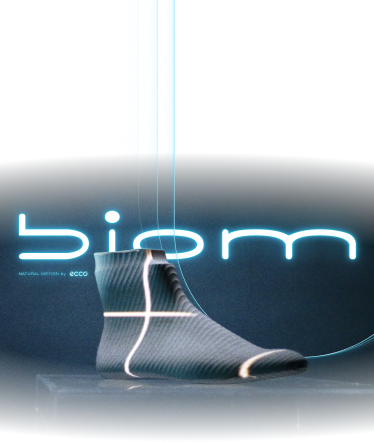
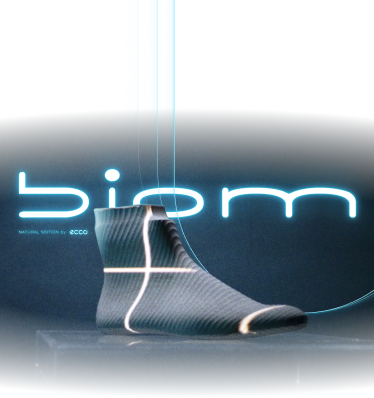
adaptive

diff --git a/assets/css/style.mobile.css b/assets/css/style.mobile.css
@@ -22,16 +22,17 @@
     padding-left: 20px;
     padding-right: 20px;
     position: relative;
-    padding-top: 50px;
+    padding-top: 26px;
     z-index: 3;
 }
 .biom__wrapper::after{
     position: absolute;
     content: '';
-    top: 385px;
-    left: 0;
-    width: 100px;
-    height: 123px;
+    top: 260px;
+    left: 50%;
+    margin-left: -67px;
+    width: 135px;
+    height: 135px;
     background: url('../images/mobile/scr.png') no-repeat center;
     background-size: contain;
     z-index: 2;
@@ -49,6 +50,7 @@
     width: 100%;
     height: 809px;
     background: url('../images/mobile/blue1.svg') no-repeat center;
+    background-size: cover;
 }
 .biom__first::before{
     position: absolute;
@@ -59,6 +61,7 @@
     width: 100%;
     height: 675px;
     background: url('../images/mobile/red1.svg') no-repeat center;
+    background-size: cover;
 }
 .biom__first img{
     display: block;
@@ -72,20 +75,20 @@
     z-index: 0;
 }
 .biom__txt-wrap{
-    max-width: 160px;
+    max-width: 132px;
     margin-left: auto;
-    margin-bottom: 294px;
+    margin-bottom: 283px;
 }
 .biom__title{
     color: #FFF;
     font-family: "Phonk Sans";
-    font-size: 18px;
+    font-size: 15px;
     font-weight: 300;
     line-height: 130%;
     text-align: left;
 }
 .biom__desc{
-    margin-top: 12px;
+    margin-top: 8px;
     text-align: left;
     color: #FFF;
     font-size: 10px;
@@ -121,7 +124,6 @@
     font-weight: 300;
     line-height: 130%;
     letter-spacing: 0.14px;
-    padding-left: 37px;
     width: 100%;
 }
 .biom__txt{
@@ -176,8 +178,8 @@
 .biom__features-lines::after{
     position: absolute;
     content: '';
-    right: 0;
-    top: -550px;
+    right: -100px;
+    top: -368px;
     z-index: 0;
     width: 374px;
     height: 604px;
@@ -190,7 +192,7 @@
 .biom__content{
     padding-left: 20px;
     padding-right: 20px;
-    margin-top: 40px;
+    margin-top: 69px;
     position: relative;
     z-index: 5;
 }
@@ -245,6 +247,7 @@
 }
 .biom__features-info{
     width: 46%;
+    margin-bottom: 10px;
 }
 .biom__features-item{
     margin-bottom: 20px;
@@ -290,27 +293,25 @@
 }
 .biom__features-render{
     width: 47%;
+    margin-bottom: 10px;
 }
 .biom__features-picture1{
-    border-radius: 10px;
-    background: #587878;
-    margin-bottom: 15px;
+    position: relative;
+    width: 100%;
+    height: 100%;
 }
 .biom__features-picture1 img{
+    position: absolute;
+    right: -24px;
+    bottom: 0;
     display: block;
-    max-width: 100%;
     object-fit: contain;
+    max-width: none;
 }
 .biom__features-picture2{
-    border-radius: 10px;
-    overflow: hidden;
-    margin-bottom: 15px;
+    display: none;
 }
-.biom__features-picture2 img{
-    display: block;
-    max-width: 100%;
-    object-fit: contain;
-}
+
 .biom__features-wide{
     width: 100%;
     height: 134px;
@@ -323,9 +324,17 @@
     left: 0;
     bottom: 0;
     display: block;
-    width: 90%;
-    max-width: 90%;
+    width: 100%;
+    max-width: 100%;
     object-fit: contain;
+}
+@media (min-width: 400px){
+    .biom__features-wide img{
+        margin-bottom: -10px;
+    }
+}
+.biom__slider{
+    padding-top: 45px !important;
 }
 .biom__slider-block{
     margin-top: 84px;
@@ -333,8 +342,6 @@
 .biom__slider-container{
     position: relative;
     width: 100%;
-    padding-left: 20px;
-    padding-right: 20px;
 }
 .custom-pagination{
     display: none;
@@ -377,6 +384,7 @@
     margin-left: 20px;
     margin-right: 20px;
     position: relative;
+    margin-bottom: -42px;
 }
 .biom__slider-title::after{
     position: absolute;
@@ -413,7 +421,7 @@
     transform: translate(-50%, -50%);
     width: 374px;
     height: 467px;
-    background: url(../images/slider-bg.png) no-repeat center;
+    background: url(../images/mobile/slider-bg.png) no-repeat center;
     background-size: contain;
 }
 .biom__product-wrap img{
@@ -439,11 +447,13 @@
     top: 368px;
     left: 0;
     width: 100%;
-    padding-left: 48px;
-    padding-right: 48px;
+    padding-left: 68px;
+    padding-right: 68px;
 }
 .biom__slide-content{
     margin-top: 130px;
+    padding-left: 20px;
+    padding-right: 20px;
 }
 .biom__slide-name{
     width: fit-content;
@@ -544,7 +554,7 @@
     text-decoration: none;
 }
 .biom__why-title{
-    margin-top: 90px;
+    margin-top: 56px;
     color: #FFF;
     text-shadow: 0 0 3px #FFF, 0 0 12px #CACACA, 0 0 46px #D7D7D7;
     font-family: "Phonk Sans";
@@ -586,7 +596,7 @@
 .biom__why-num{
     display: flex;
     align-items: flex-end;
-    margin-top: 75px;
+    margin-top: 64px;
     color: #FFF;
     text-shadow: 0 0 14.946px #FFF, 0 0 59.785px #CACACA, 0 0 239.142px #D7D7D7;
     font-family: "Phonk Sans";    
@@ -597,6 +607,7 @@
 .biom__why-num span:nth-child(1){
     font-size: 105px;
     line-height: 1;
+    margin-bottom: 20px;
 }
 .biom__why-num span:nth-child(2){
     font-size: 75px;
@@ -608,6 +619,7 @@
 .biom__why-content img{
     margin-left: -20px;
     margin-bottom: -20px;
+    margin-top: -1px;
 }
 .biom__why-txt{
     color: #FFF;
@@ -651,7 +663,7 @@
     border-radius: 10px;
 }
 .biom__athlete-container{
-    margin-top: 55px;    
+    margin-top: 66px;    
 }
 .biom__athlete{
     position: relative;
@@ -666,6 +678,16 @@
     width: 374px;
     height: 719px;
     background: url('../images/mobile/blue3.svg') no-repeat center;
+    background-size: contain;
+}
+.biom__athlete::before{
+    position: absolute;
+    content: '';
+    top: -30px;
+    right: 0;
+    width: 374px;
+    height: 737px;
+    background: url('../images/mobile/red3.svg') no-repeat center;
     background-size: contain;
 }
 .biom__athlete-title{
@@ -751,7 +773,7 @@
     display: flex;
     flex-wrap: wrap;
     align-items: center;
-    margin-top: 40px;
+    margin-top: 42px;
 }
 .biom__dev-num{
     color: #FFF;
@@ -783,6 +805,7 @@
     line-height: 130%; /* 18.2px */
     letter-spacing: -0.14px;
     padding-left: 107px;
+    margin-top: -12px;
 }
 .biom__dev-logo{
     width: 135px;
@@ -798,7 +821,7 @@
     line-height: 130%;
     letter-spacing: 0.2px;
     text-align: center;
-    margin-top: 50px;
+    margin-top: 56px;
 }
 .biom__models-txt span{
     color: #FFF;   
@@ -855,16 +878,20 @@
 .biom__soc-wrap .i-logo {
     transform: scale(0.5);
     display: block;
-    margin-left: -60px;
 }
 .biom__soc-wrap .i-tg {
     transform: scale(0.5);
     display: block;
+    margin-right: 20px;
+    position: relative;
+    left: -40px;
 }
 .biom__soc-wrap .i-vk {
     transform: scale(0.5);
     display: block;
     margin-right: -20px;
+    position: relative;
+    left: -70px;
 }
 .biom__soc-wrap .icons-row {
     width: 100%;
@@ -873,8 +900,8 @@
     justify-content: center;  
     padding-left: 20px;
     padding-right: 20px;
-    padding-top: 72px;
-    padding-bottom: 60px;
+    padding-top: 54px;
+    padding-bottom: 42px;
 }
 .biom__soc-wrap .icons-row svg{
     display: block;

diff --git a/index.htm b/index.htm
@@ -3047,7 +3047,7 @@ display: none;
                             <div class="biom__desc">для долгих прогулок, <br> фитнеса и хайкинга</div>
                         </div>
                         
-                        <div class="biom__animate biom__info">Заметили, насколько проще наслаждаться <br> каждым шагом, когда на ногах удобная обувь? </div>
+                        <div class="biom__animate biom__info">Заметили, насколько проще наслаждаться каждым шагом, когда на ногах удобная&nbsp;обувь? </div>
                         <div class="biom__animate biom__txt">На прогулке, пробежке и даже в пути на работу — <br> BIOM делают шаги легче, а жизнь комфортнее.</div>
                     </div>
                     <div class="biom__video">
@@ -3058,9 +3058,6 @@ display: none;
                 </div>
                 
                 <div class="biom__features">
-                    <div class="biom__mobile-picture">
-                        <img src="./assets/images/mobile/girl.png" alt="picture">
-                    </div>
                     <div class="biom__features-lines"></div>
                     <div class="biom__content">
                         <div class="biom__features-title">В чем <br> особенность <br> BIOM?</div>
@@ -3083,7 +3080,10 @@ display: none;
                                 </div>
                                 <div class="biom__features-render">
                                     <div class="biom__features-picture1">
-                                        <img src="./assets/images/f1.png" alt="product">
+                                        <picture>
+                                            <source srcset="./assets/images/f1.png" media="(min-width: 1025px)">
+                                            <img src="./assets/images/mobile/girl.png" alt="biom">
+                                        </picture> 
                                     </div>
                                     <div class="biom__features-picture2">
                                         <img src="./assets/images/f2.png" alt="product">
@@ -3238,7 +3238,10 @@ display: none;
                                 <span>х</span>
                             </div>
                             <div class="biom__why-content">
-                                <img src="./assets/images/stelki.png" alt="product">
+                                <picture>
+                                    <source srcset="./assets/images/stelki.png" media="(min-width: 1025px)">
+                                    <img src="./assets/images/mobile/stelki.png" alt="biom">
+                                </picture> 
                                 <div class="biom__why-txt">факторная <br> поддержка <br> стопы</div>
                                 <div class="biom__why-info">Мягкая посадка, устойчивость и&nbsp;мощный импульс</div>
                             </div>

diff --git a/assets/css/style.css b/assets/css/style.css
@@ -128,6 +128,9 @@
     position: relative;
     z-index: 2;
     margin-top: 409px;
+    max-width: 1219px;
+    margin-left: auto;
+    margin-right: auto;
 }
 .biom__txt{
     margin-top: 42px;
@@ -1131,7 +1134,6 @@
         width: 160px;
         height: 161px;
         left: 0;
-        top: 265px;
     }
     .biom__video{
         width: calc(100% - 40px);
